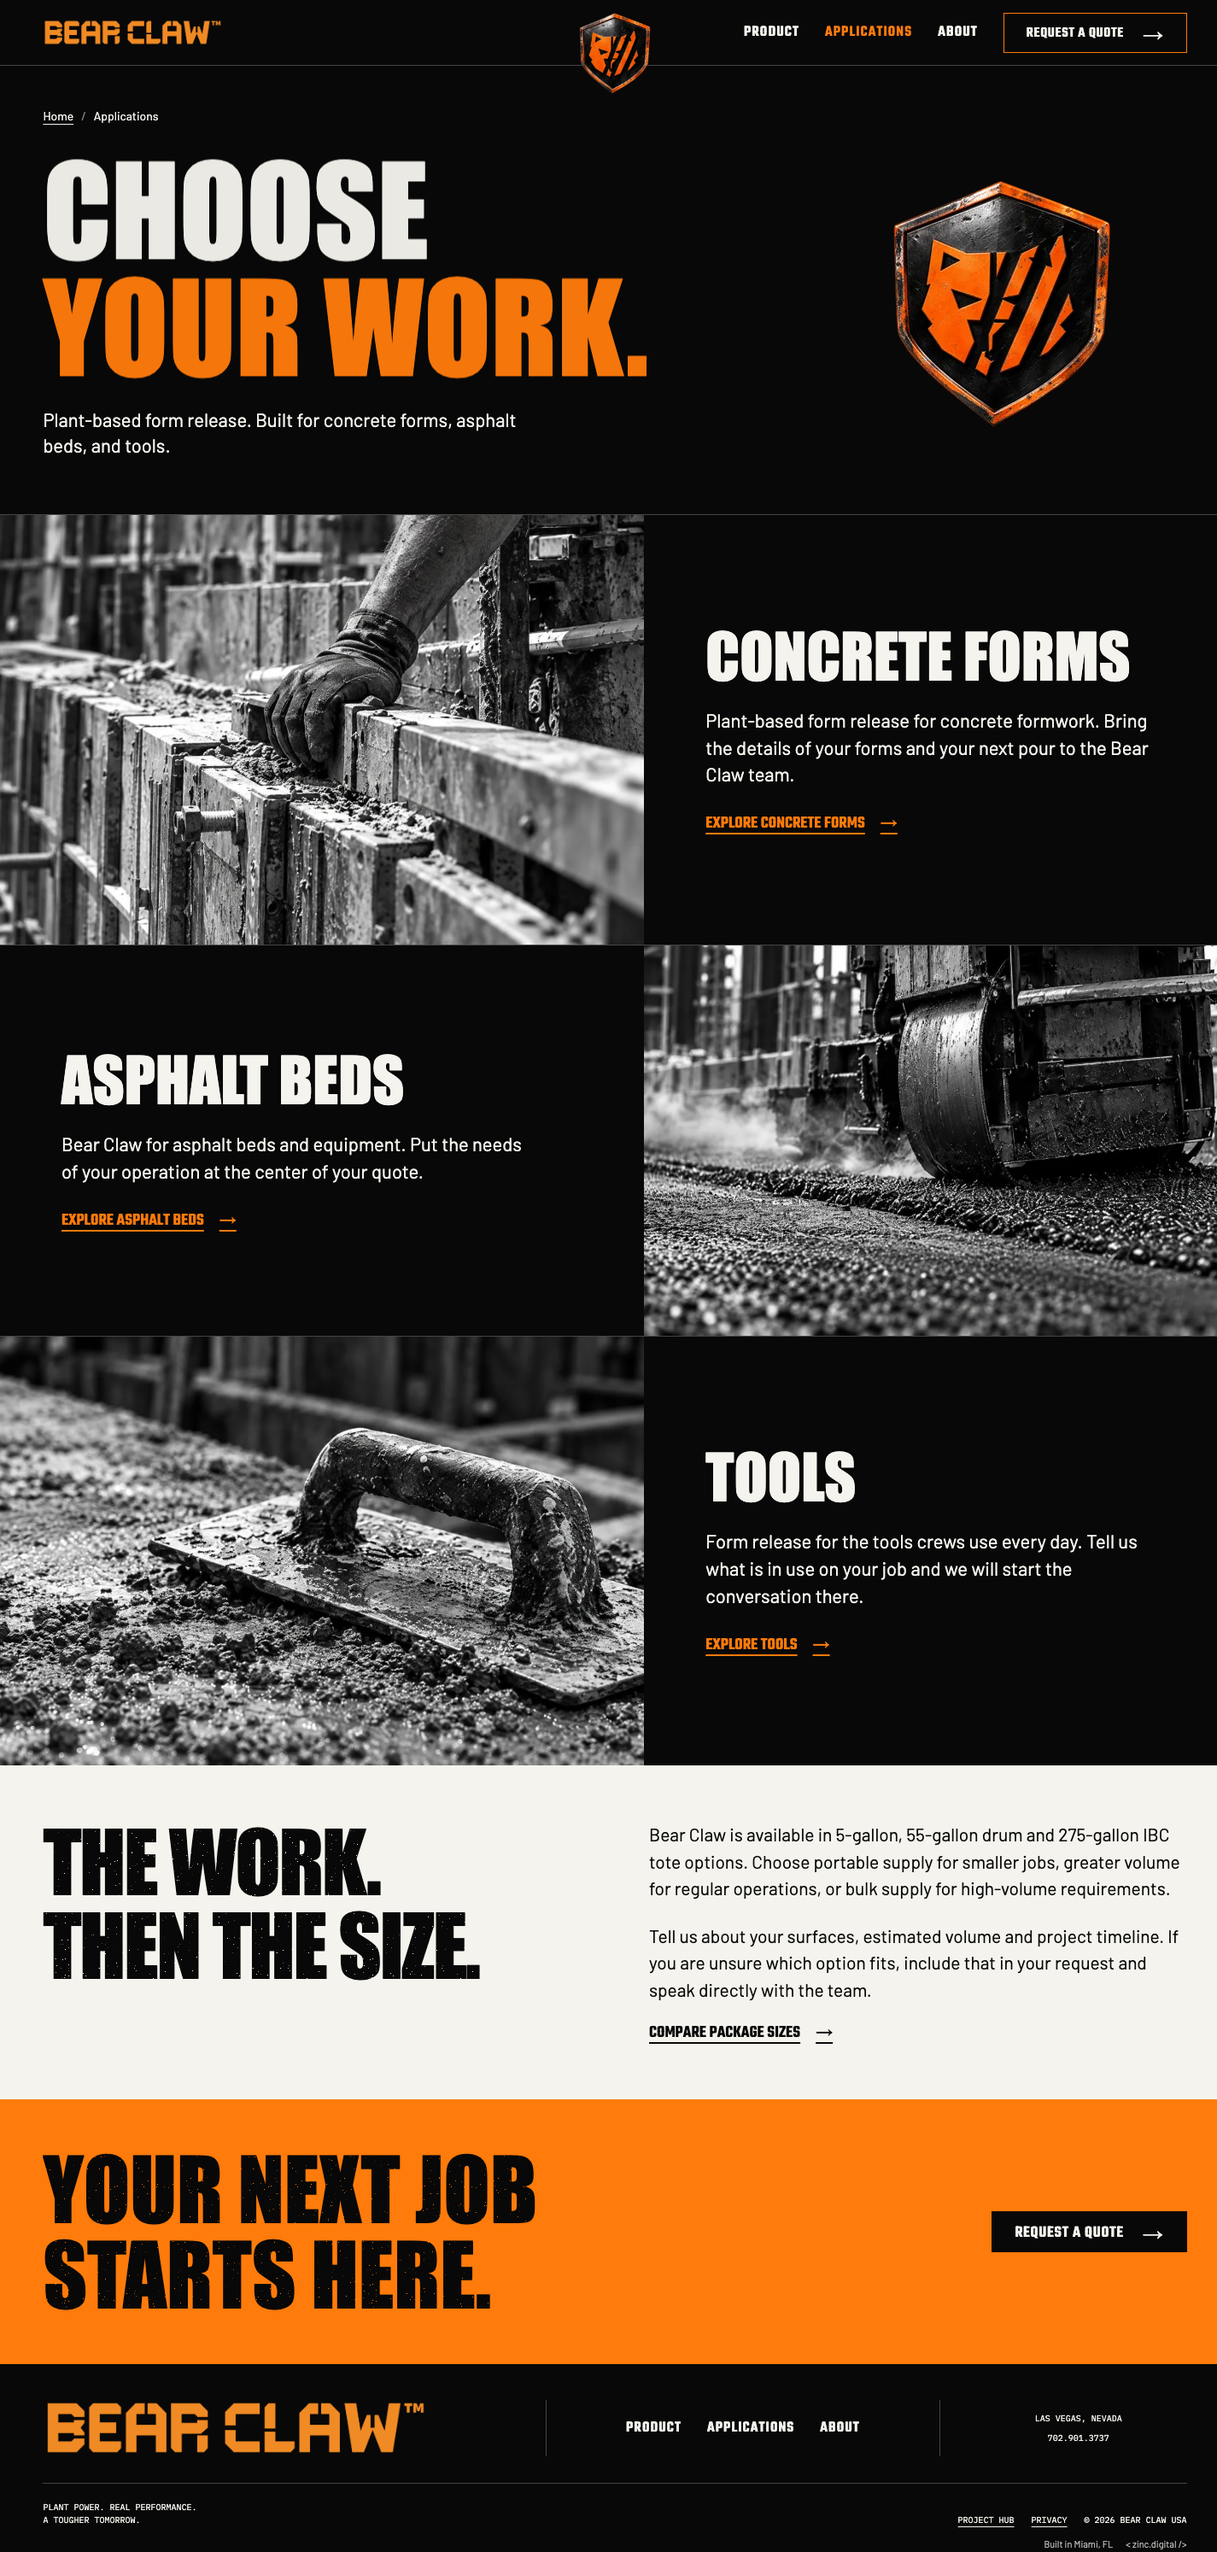
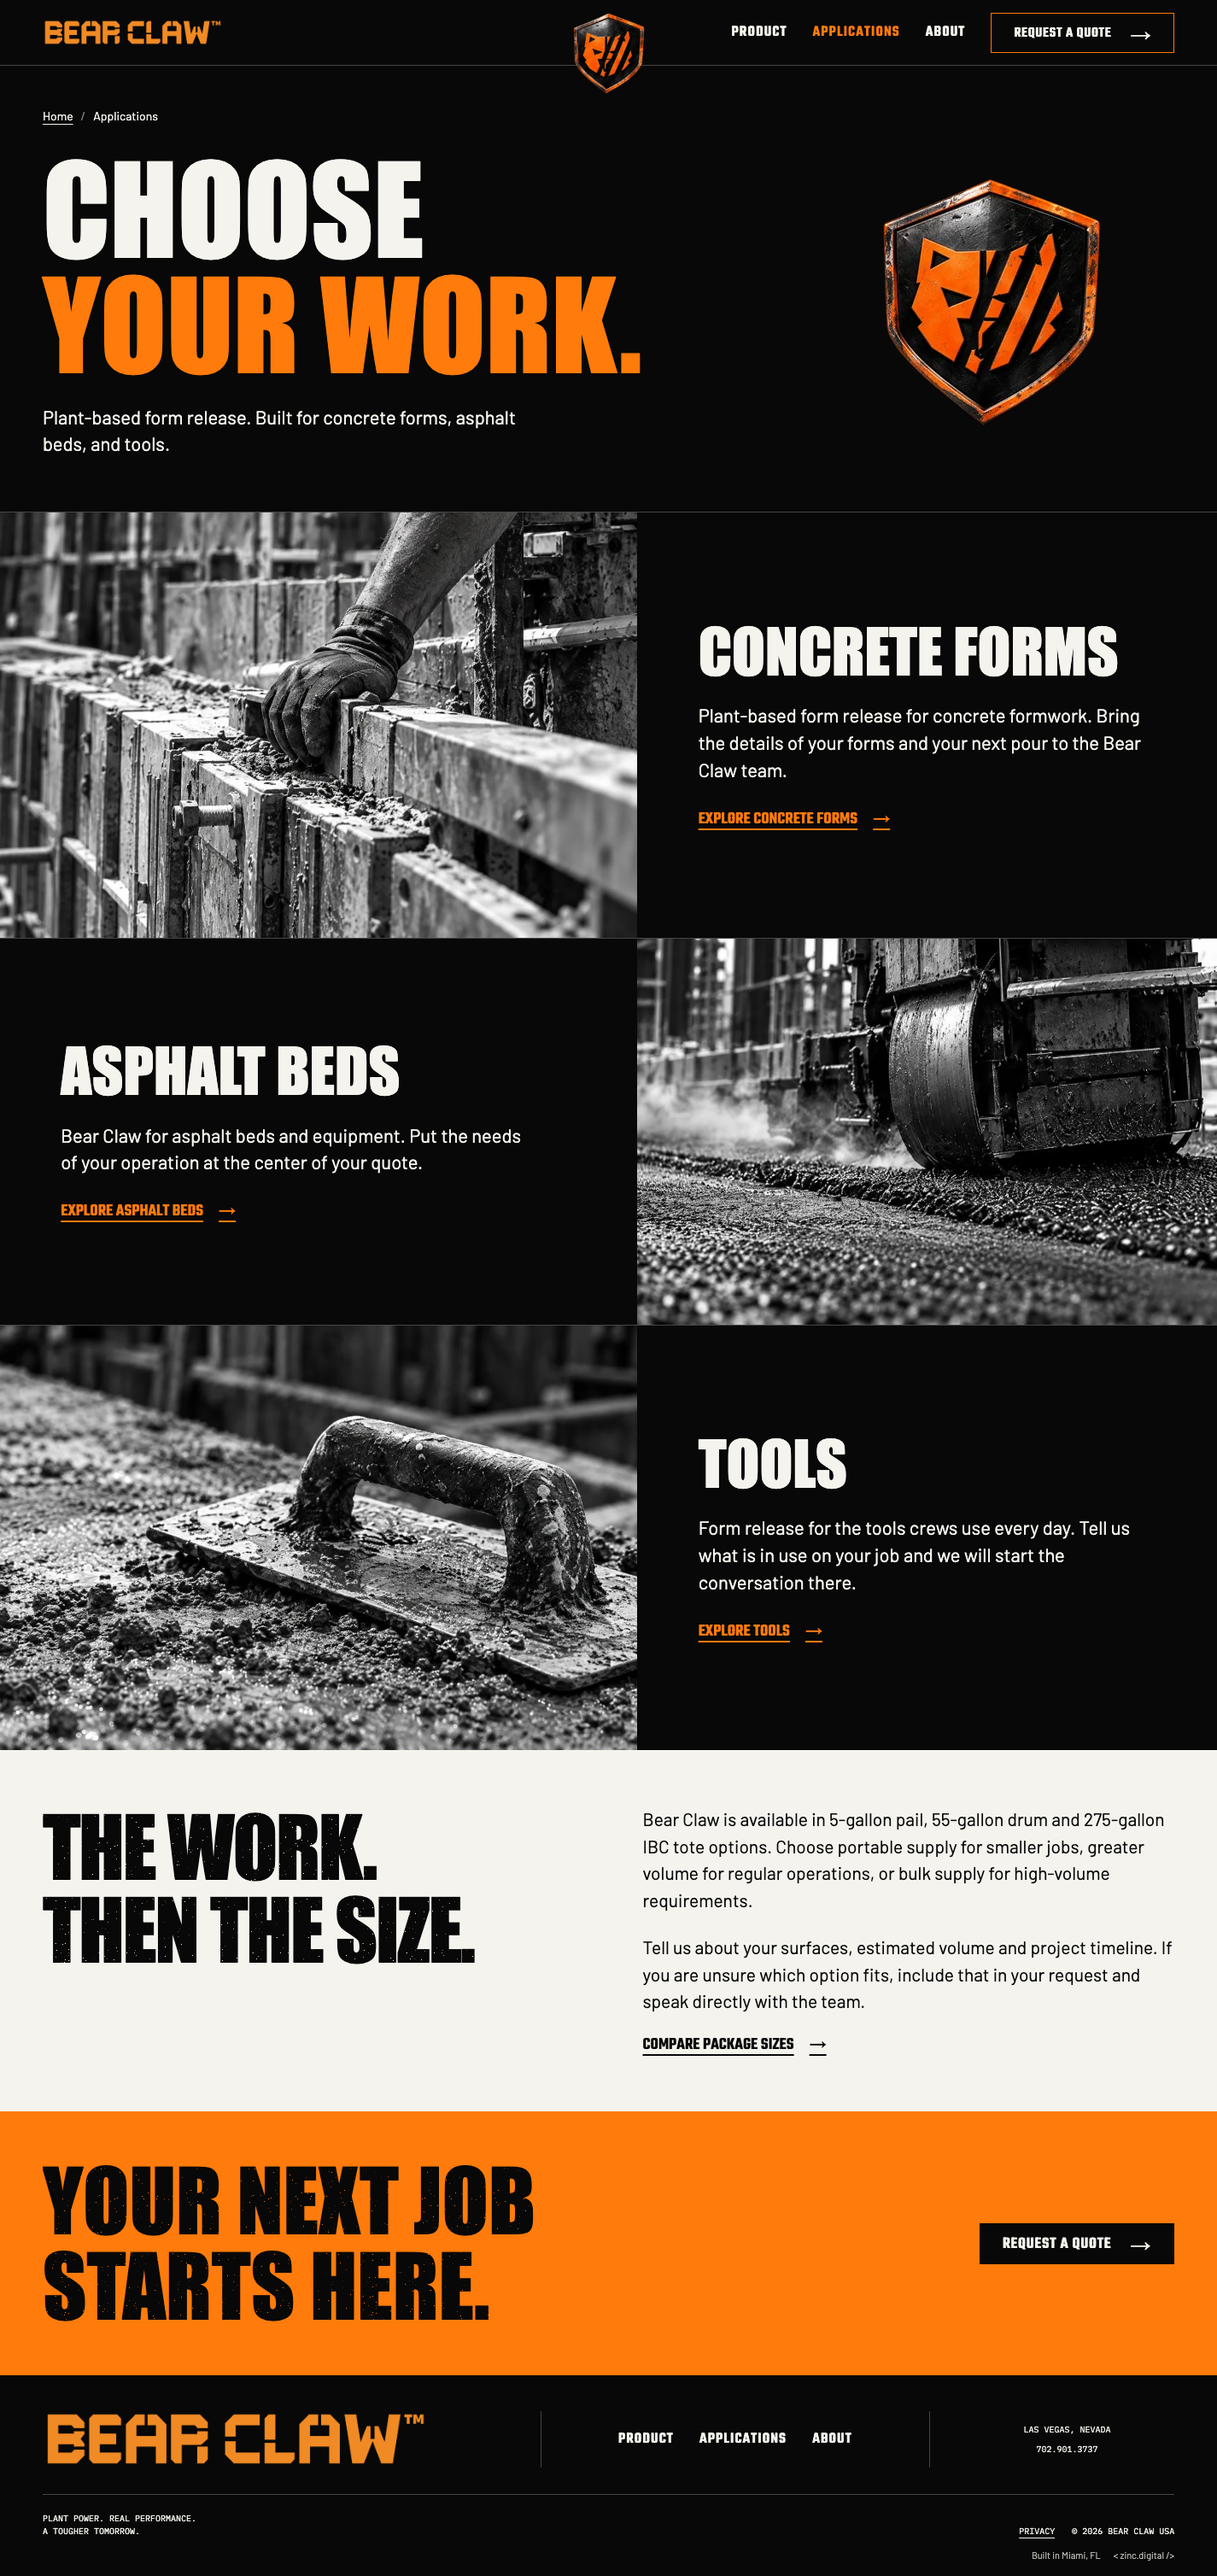
Refresh the Bear Claw case study with live captures, packaging and the systems behind the site
- Recapture all 17 Bear Claw screenshots from www.bearclawusa.com; the old AI images, including the mislabelled pail, are gone.
- Add the pail, drum and tote label graphics and 3D renders as branded packaging.
- Add a "Behind the website" section covering domain, company email, site email, server and database, private lead admin, and release, with admin screens that use only fictional sample data.
- Redesign the Bear Claw situation and approach sections with numbered cards and a route.
- Point links at www.bearclawusa.com and update the site check so it requires the new images and section while still refusing to claim Bear Claw's existing identity as ZINC work.

diff --git a/src/data/site.ts b/src/data/site.ts
@@ -168,9 +168,9 @@ export const cases: Case[] = [
     slug: 'bear-claw-usa', title: 'Bear Claw USA',
     heroLabel: 'Website design / Responsive development',
     line: 'A product website that connects plant-based form release with its uses and a clear path to request a quote.',
-    url: 'https://bear-claw-usa.vercel.app/', layers: ['Build'],
+    url: 'https://www.bearclawusa.com/', layers: ['Build'],
     location: 'Las Vegas, NV', timeline: '',
-    scope: 'Website design and development · Product, applications, about and quote pages · Desktop, tablet and mobile layouts',
+    scope: 'Website design and development · Product, applications, about and quote pages · Desktop, tablet and mobile layouts · Packaging labels and product renders · Domain, company email, server, database and private lead admin',
     situation: 'Bear Claw USA makes plant-based form release for concrete forms, asphalt beds and tools. ZINC designed and built the website using Bear Claw’s existing brand identity, connecting product information, company background and quote requests across screen sizes.',
     receipts: [],
     challenge: [
@@ -181,13 +181,15 @@ export const cases: Case[] = [
     approach: [
       'Built the website around the product, its applications and a visible quote-request path.',
       'Designed home, product, applications, about and quote pages using Bear Claw’s existing logos, colors and product imagery.',
-      'Adapted page layouts and navigation for desktop, tablet and mobile screens.'
+      'Adapted page layouts and navigation for desktop, tablet and mobile screens.',
+      'Designed the pail, drum and tote labels and rendered each container in 3D, so the product page shows clear, consistent packaging. Renders are shown for reference.',
+      'Set up the domain, company email, server, database and private lead admin behind the website.'
     ],
     results: [], before: null,
-    brand: [],
+    brand: ['bear-claw-package-pail','bear-claw-package-drum','bear-claw-package-tote'],
     quote: null,
     work: {
-      Build: 'Website design and development, including product information, company background and quote requests across desktop, tablet and mobile.',
+      Build: 'Website design and development, including product information, company background and quote requests across desktop, tablet and mobile, plus packaging labels, product renders, company email, hosting, the lead database and a private admin.',
       Demand: 'Search and paid-media management are outside the work shown here.',
       Intelligence: 'Reporting and analytics are outside the work shown here.'
     },
